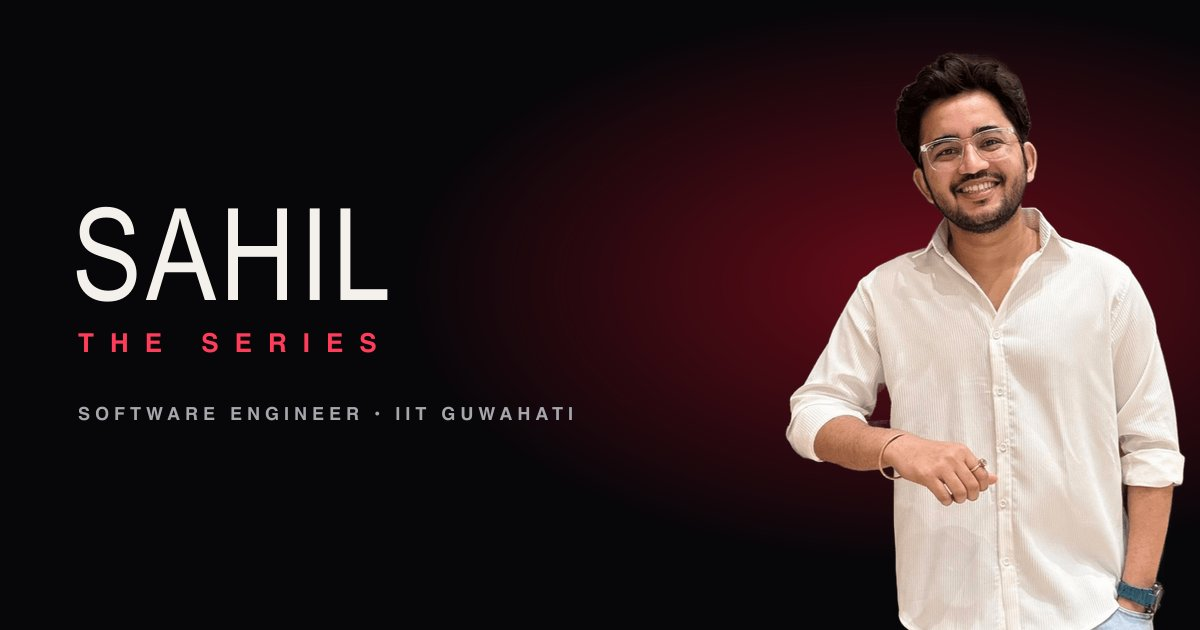
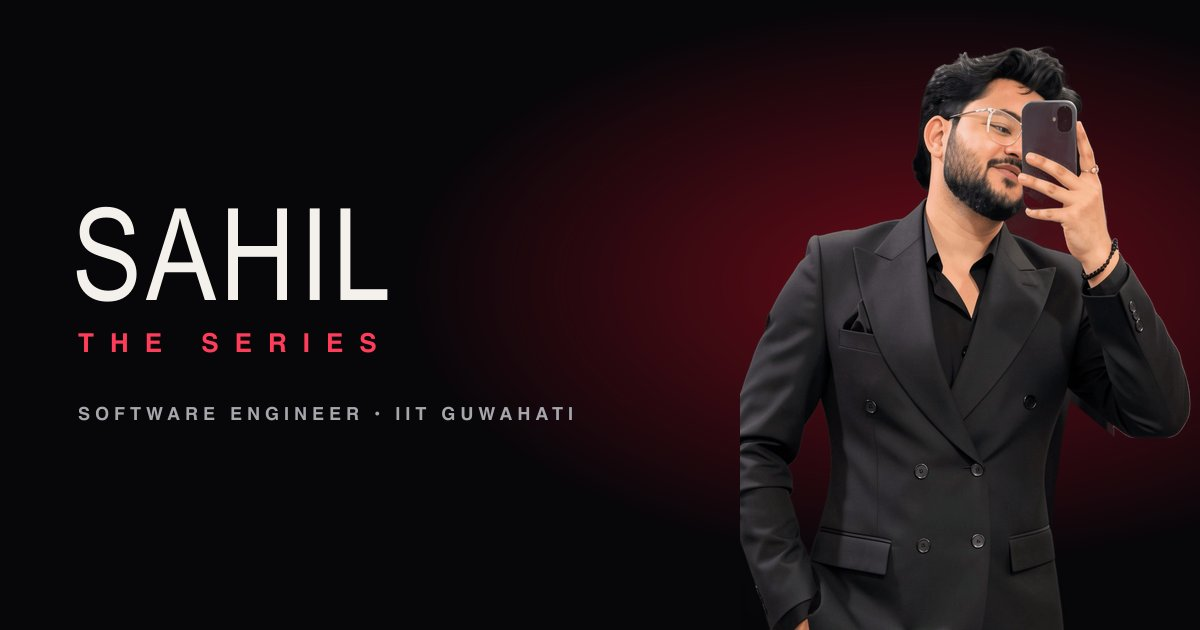
New suit portrait; fix stale-image caching
- Replace portrait (background removed, curtain remnant masked out)
- Portrait files get a content hash in their name via scripts/build-images.mjs,
  which also writes src/data/portraitAssets.ts and the index.html preload
- Long-term immutable caching now only for hashed build output in /static;
  /assets files are revalidated, so swapped images show up immediately
- Move the current-role hero chip clear of the face

Changed region(s): [[0.6167, 0.0603, 1.0, 1.0]]

diff --git a/src/data/portfolio.ts b/src/data/portfolio.ts
@@ -4,6 +4,8 @@
  * Every fact on the site comes from this file. Update it here and the whole site follows.
  */
 
+import { portraitAssets } from './portraitAssets';
+
 export type Palette = { from: string; via: string; to: string; accent: string };
 
 export const profile = {
@@ -31,8 +33,9 @@ export const profile = {
     download: 'https://drive.google.com/uc?export=download&id=1x7T_6W_kfXnpSFHWBNH5nWswLDmW9kT8',
   },
   portrait: {
-    src: '/assets/portrait-720.webp',
-    srcSet: '/assets/portrait-420.webp 420w, /assets/portrait-720.webp 587w',
+    src: portraitAssets.large,
+    small: portraitAssets.small,
+    srcSet: portraitAssets.srcSet,
     alt: 'Portrait of Sahil Tyagi',
   },
   interests: ['System Design', 'Event Streaming', 'AI Pipelines', 'Distributed Systems'],

diff --git a/src/components/ProfileSelector.tsx b/src/components/ProfileSelector.tsx
@@ -9,7 +9,7 @@ export function ProfileAvatar({ id, size = 'lg' }: { id: ProfileId; size?: 'sm' 
   if (id === 'sahil') {
     return (
       <span className={`relative block overflow-hidden ${box}`} style={{ background: 'radial-gradient(circle at 50% 30%, #7a0f24, #1a0509)' }}>
-        <img src="/assets/portrait-420.webp" alt="" className="absolute inset-x-0 bottom-0 mx-auto h-[115%] w-auto max-w-none -translate-x-[3%] object-cover object-top" />
+        <img src={profile.portrait.small} alt="" className="absolute inset-x-0 bottom-0 mx-auto h-[115%] w-auto max-w-none -translate-x-[3%] object-cover object-top" />
       </span>
     );
   }

diff --git a/src/components/About.tsx b/src/components/About.tsx
@@ -26,7 +26,7 @@ export default function About() {
             <div className="absolute inset-0 bg-[radial-gradient(80%_60%_at_50%_30%,#5a0b1b,#14060a_60%,#07070a)]" />
             <div className="absolute inset-0 opacity-50 [background-image:repeating-linear-gradient(90deg,rgba(255,255,255,0.03)_0px,rgba(255,255,255,0.03)_1px,transparent_1px,transparent_28px)]" />
             <img
-              src="/assets/portrait-720.webp"
+              src={profile.portrait.src}
               srcSet={profile.portrait.srcSet}
               sizes="(max-width: 1024px) 90vw, 40vw"
               alt={profile.portrait.alt}

diff --git a/index.html b/index.html
@@ -14,7 +14,7 @@
     <link rel="preconnect" href="https://fonts.googleapis.com" />
     <link rel="preconnect" href="https://fonts.gstatic.com" crossorigin />
     <link href="https://fonts.googleapis.com/css2?family=Bebas+Neue&family=Instrument+Serif:ital@0;1&family=Inter:wght@300;400;500;600;700;800&display=swap" rel="stylesheet" />
-    <link rel="preload" as="image" href="/assets/portrait-720.webp" type="image/webp" />
+    <link rel="preload" as="image" href="/assets/portrait-f728ad24-720.webp" type="image/webp" />
   </head>
   <body>
     <div id="root"></div>

diff --git a/src/components/Hero.tsx b/src/components/Hero.tsx
@@ -40,7 +40,7 @@ export default function Hero({ onPlay, onResume, profileId }: { onPlay: () => vo
 
   const floating = [
     { text: education[0].short, sub: education[0].degree, pos: 'left-[2%] top-[30%]', depth: 1 },
-    { text: experience[0].company, sub: experience[0].role, pos: 'right-[0%] top-[18%]', depth: -1 },
+    { text: experience[0].company, sub: experience[0].role, pos: 'right-[-6%] top-[3%]', depth: -1 },
     { text: 'Node.js · Kafka · Redis', sub: 'Primary stack', pos: 'right-[4%] bottom-[24%]', depth: 0.6 },
   ];
 

diff --git a/vite.config.ts b/vite.config.ts
@@ -6,6 +6,8 @@ export default defineConfig({
   plugins: [react(), tailwindcss()],
   build: {
     target: 'es2020',
+    // Hashed bundles live in /static (cached forever); /assets holds plain public files.
+    assetsDir: 'static',
     rollupOptions: {
       output: {
         manualChunks: { motion: ['framer-motion'], react: ['react', 'react-dom'] },

diff --git a/src/data/portraitAssets.ts b/src/data/portraitAssets.ts
@@ -1,0 +1,6 @@
+// Generated by scripts/build-images.mjs — do not edit by hand.
+export const portraitAssets = {
+  large: '/assets/portrait-f728ad24-720.webp',
+  small: '/assets/portrait-f728ad24-420.webp',
+  srcSet: '/assets/portrait-f728ad24-420.webp 420w, /assets/portrait-f728ad24-720.webp 720w',
+};
